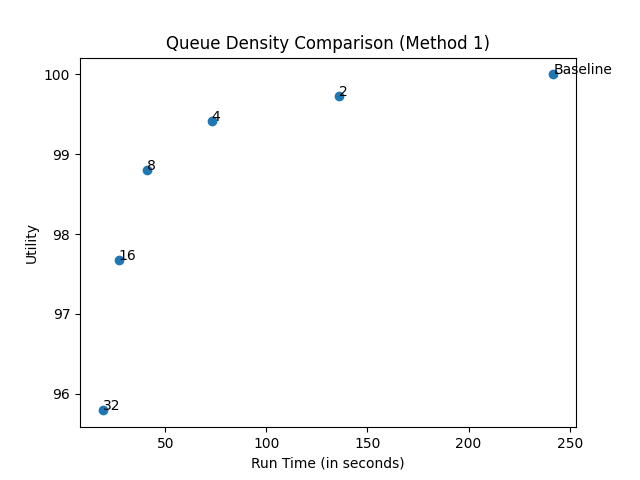
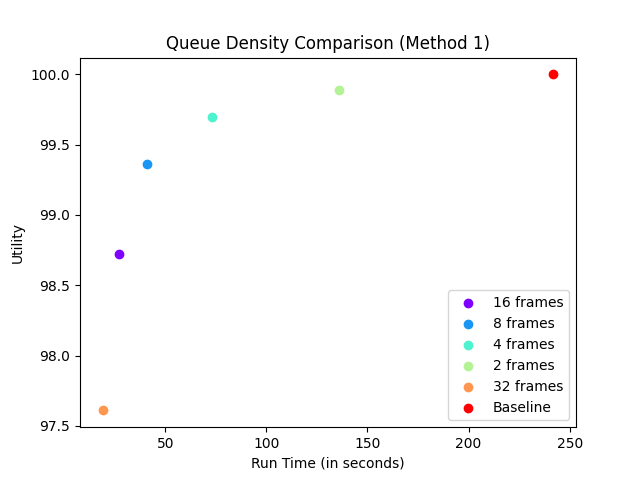
added all plots

diff --git a/Analysis/Scripts/compare.py b/Analysis/Scripts/compare.py
@@ -1,18 +1,30 @@
 import pandas as pd
 import matplotlib.pyplot as plt
+import matplotlib.cm as cm
 from os import walk
 import numpy as np
+import sys
 
-method = '4'
-mode = 'rms'
-baseline_path = '../Outputs/baseline.txt'
-dir_path = '../Outputs/Method' + method
+method = sys.argv[1]
+mode = sys.argv[2]
+baseline_path = '../Analysis/Outputs/baseline.txt'
+dir_path = '../Analysis/Outputs/Method' + method
 
 f = []
 for (dirpath, dirnames, filenames) in walk(dir_path):
     f.extend(filenames)
     break
+
+def get_info(method):
+	if method == '1':
+		return ' frames'
+	if method == '2':
+		return ''
+	else:
+		return ' threads'
+
 labels = [file[:-4] for file in f if file[-4:] != '.png']
+labels = [label+get_info(method) for label in labels]
 labels.append('Baseline')
 paths = [dir_path+'/'+file for file in f if file[-4:] != '.png']
 paths.append(baseline_path)
@@ -34,30 +46,30 @@ for path in paths:
 		accuracy = np.mean(np.abs(baseline-result), 0)
 	else:
 		accuracy = np.sqrt(np.mean(np.square(baseline-result), 0))
-	accuracy = np.round(100*(1-np.tanh(accuracy)), 2)
+	accuracy = np.round(100*(1-(accuracy)), 2)
 	stats.append([accuracy[0], accuracy[1], runtime])
 
 
 stats = np.array(stats)
 
 # Queue Density
-plt.scatter(stats[:, 2], stats[:, 0])
+colors = iter(cm.rainbow(np.linspace(0, 1, len(stats))))
 for i in range(len(stats)):
-	plt.text(stats[i, 2], stats[i, 0], labels[i])
+	plt.scatter([stats[i, 2]], [stats[i, 0]], color=next(colors), label=labels[i])
 plt.title('Queue Density Comparison (Method ' + method + ')')
 plt.ylabel('Utility')
 plt.xlabel('Run Time (in seconds)')
+plt.legend()
 plt.savefig(dir_path+'/Queue_Density.png')
-# plt.show()
 
 plt.figure()
 
 # Dynamic Density
-plt.scatter(stats[:, 2], stats[:, 1])
+colors = iter(cm.rainbow(np.linspace(0, 1, len(stats))))
 for i in range(len(stats)):
-	plt.text(stats[i, 2], stats[i, 1], labels[i])
+	plt.scatter([stats[i, 2]], [stats[i, 1]], color=next(colors), label=labels[i])
 plt.title('Dynamic Density Comparison (Method ' + method + ')')
 plt.ylabel('Utility')
 plt.xlabel('Run Time (in seconds)')
+plt.legend()
 plt.savefig(dir_path+'/Dynamic_Density.png')
-# plt.show()

diff --git a/Analysis/Scripts/plot.py b/Analysis/Scripts/plot.py
@@ -1,16 +1,61 @@
 import pandas as pd
 import matplotlib.pyplot as plt
-df = pd.read_csv('../Outputs/baseline.txt')
-y1 = list(df['Queue_Density'])
-y2 = list(df['Dynamic_Density'])
-x = list(df['Frame_Num'])
-x = [point/15 for point in x]
-plt.figure(figsize=(10, 6))
-plt.plot(x, y1, label='Queue Density')
-plt.plot(x, y2, label='Dynamic Density')
-plt.ylabel('Density')
-plt.xlabel('Time (in seconds)')
-plt.legend()
-plt.title('Baseline')
-plt.savefig('../Outputs/baseline.png')
-plt.show()
+import matplotlib.cm as cm
+from os import walk
+import numpy as np
+import sys
+
+step = 3
+
+if len(sys.argv) == 1:
+	df = pd.read_csv('../Analysis/Outputs/baseline.txt')
+	y1 = list(df['Queue_Density'])[::step]
+	y2 = list(df['Dynamic_Density'])[::step]
+	x = list(df['Frame_Num'])[::step]
+	x = [point/15 for point in x]
+	plt.figure(figsize=(10, 6))
+	plt.plot(x, y1, label='Queue Density')
+	plt.plot(x, y2, label='Dynamic Density')
+	plt.ylabel('Density')
+	plt.xlabel('Time (in seconds)')
+	plt.legend()
+	plt.title('Baseline')
+	plt.savefig('../Analysis/Outputs/Baseline.png')
+else:
+	method = sys.argv[1]
+	dir_path = '../Analysis/Outputs/Method' + method
+
+	f = []
+	for (dirpath, dirnames, filenames) in walk(dir_path):
+	    f.extend(filenames)
+	    break
+
+	def get_info(method):
+		if method == '1':
+			return ' frames'
+		if method == '2':
+			return ''
+		else:
+			return ' threads'
+
+	labels = [file[:-4] for file in f if file[-4:] != '.png']
+	labels = [label+get_info(method) for label in labels]
+
+	paths = [dir_path+'/'+file for file in f if file[-4:] != '.png']
+	outputs = [dir_path + '/Plots/' + file[:-4] + '.png' for file in f if file[-4:] != '.png']
+	i = 0
+	for path in paths:
+		df = pd.read_csv(path)
+		y1 = list(df['Queue_Density'])[::step]
+		y2 = list(df['Dynamic_Density'])[::step]
+		x = list(df['Frame_Num'])[::step]
+		x = [point/15 for point in x]
+		plt.figure(figsize=(10, 6))
+		plt.plot(x, y1, label='Queue Density')
+		plt.plot(x, y2, label='Dynamic Density')
+		plt.ylabel('Density')
+		plt.xlabel('Time (in seconds)')
+		plt.legend()
+		plt.title(labels[i])
+		plt.savefig(outputs[i])
+		i += 1

diff --git a/Code/helpers.hpp b/Code/helpers.hpp
@@ -308,7 +308,7 @@ vector<vector<double>> getDensityDataTemporal(VideoCapture &cap, Mat &frame_empt
 vector<vector<double>> getDensityDataSparse(string file_name, Mat &frame_empty, int step = 1){
 	
 	VideoCapture cap;
-	cap.open("Videos/"+file_name); // Open video file
+	cap.open("../Data/Videos/"+file_name); // Open video file
 
 	// if not success, exit program
     if (cap.isOpened() == false) {
